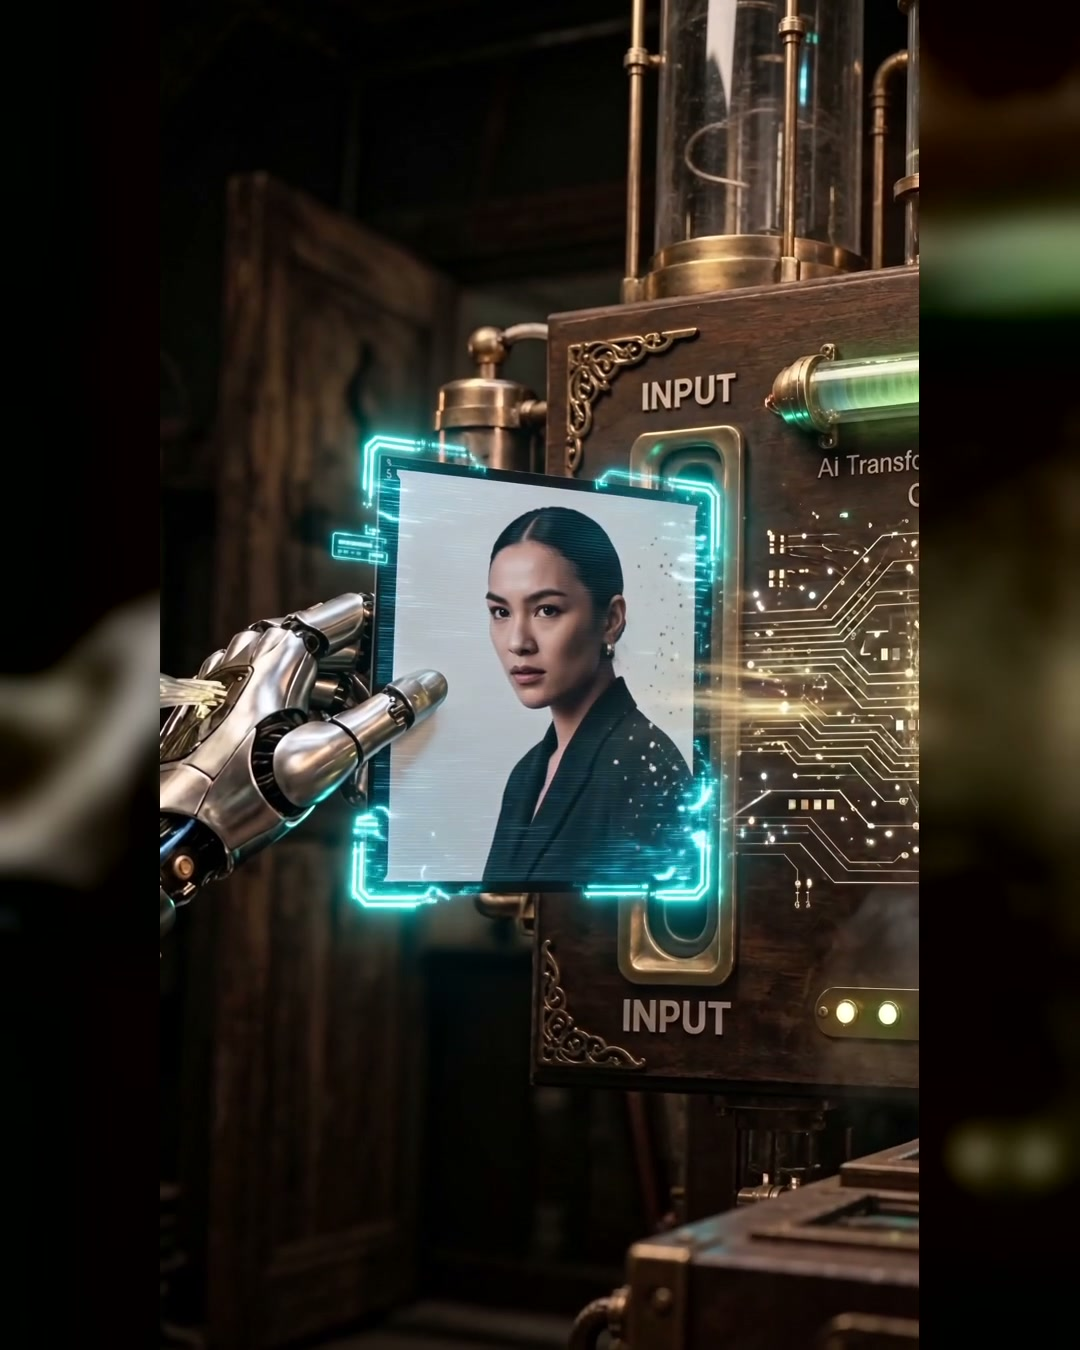
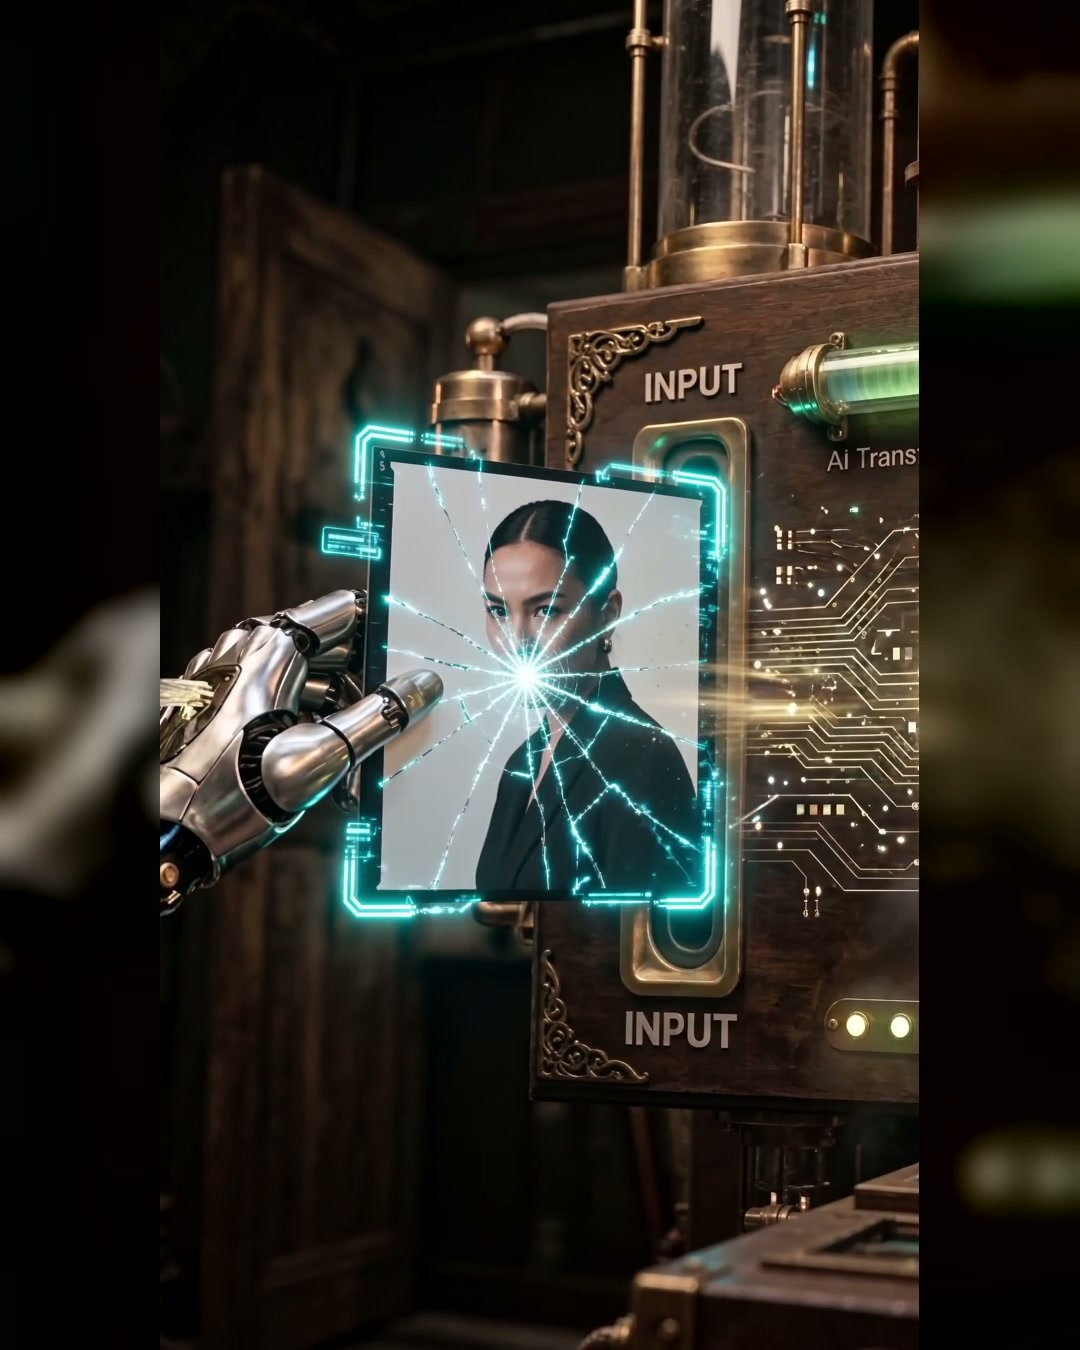
Use uncropped framing for warrior demo

diff --git a/index.html b/index.html
@@ -576,7 +576,7 @@
 </div>
 </div>
 <div class="demo-card has-help" data-help="입력 이미지가 영화 장면으로 변환되는 대표 데모입니다." data-help-key="help11" data-help-ko="입력 이미지가 영화 장면으로 변환되는 대표 데모입니다.">
-<video autoplay="" class="demo-autoplay-video" data-main-motion="warrior" id="demoWarriorVideo" loop="" muted="" playsinline="" poster="demo-warrior-v2.jpg" preload="auto" src="demo-warrior-v2.mp4"></video>
+<video autoplay="" class="demo-autoplay-video" data-main-motion="warrior" id="demoWarriorVideo" loop="" muted="" playsinline="" poster="demo-warrior-refined.jpg" preload="auto" src="demo-warrior-refined.mp4?v=1"></video>
 <div class="demo-card-caption">
 <div>
 <b>Transformation Demo</b>
